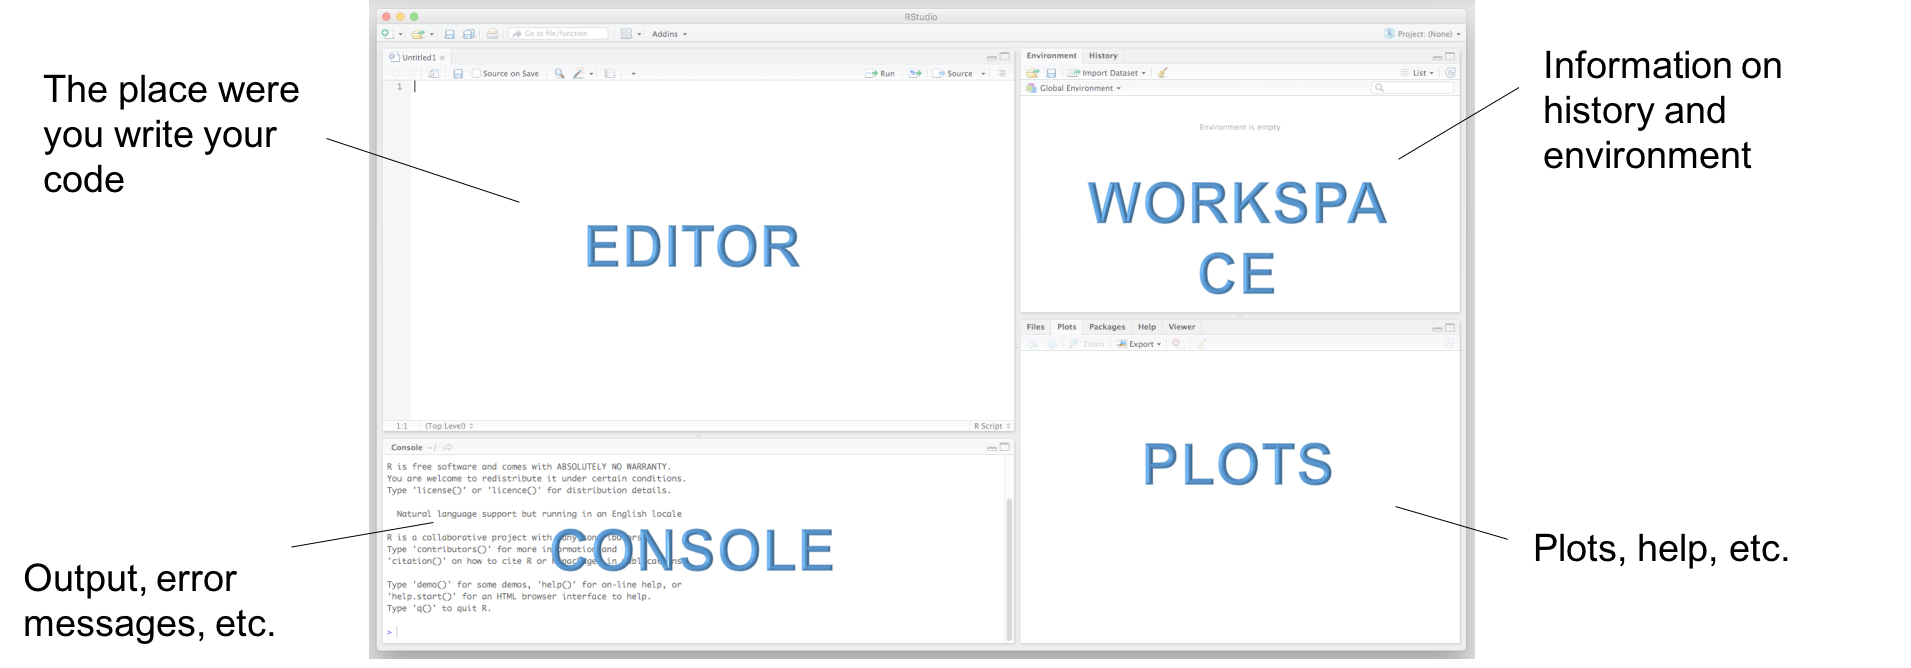
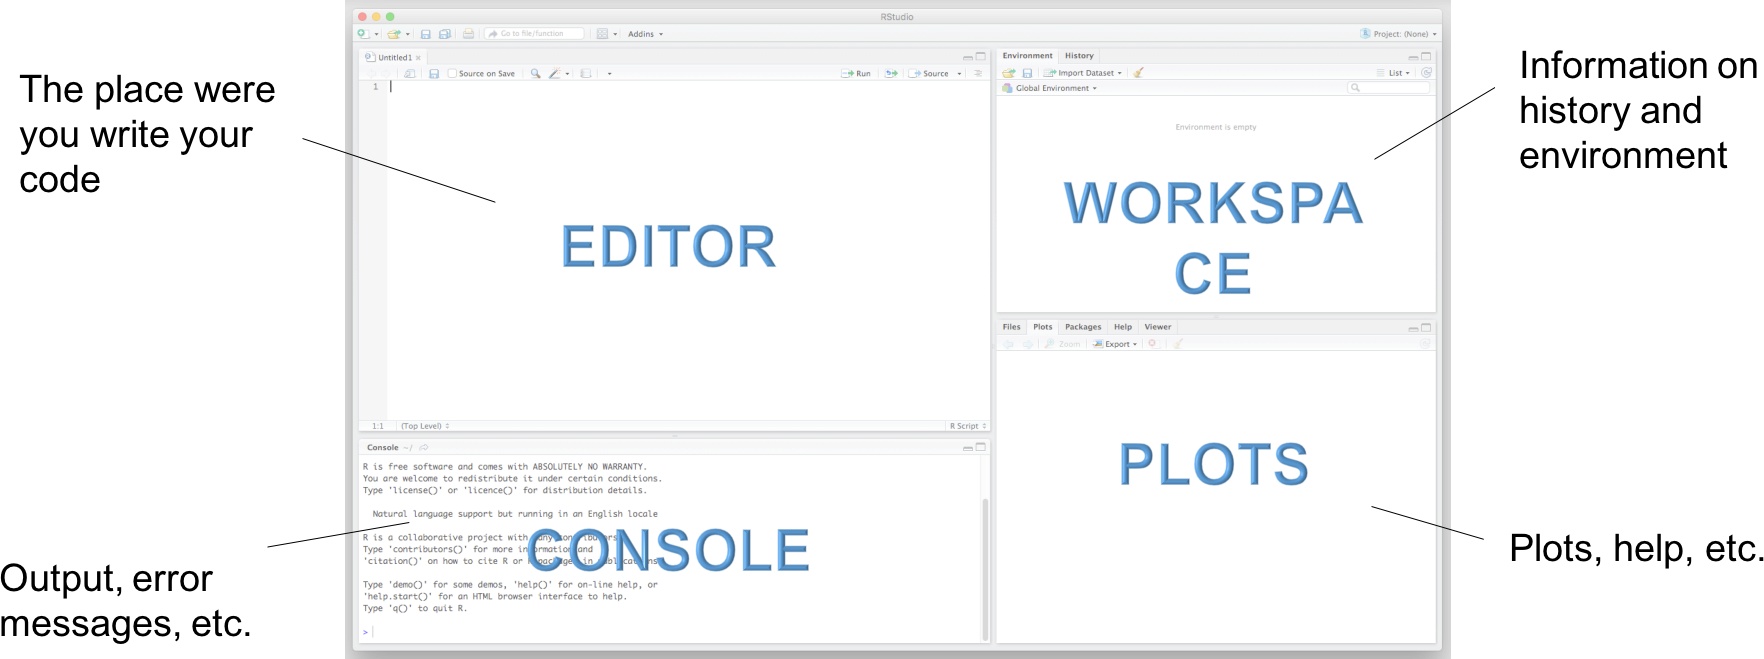
updated slides

diff --git a/r_teaser.html b/r_teaser.html
@@ -57,19 +57,25 @@ class: inverse,  center, middle
 
 &lt;img align="middle" style='height: 70%; width: 100%; object-fit: contain' src="assets/plot_examples.png"/&gt;
 
+???
+
+good &amp; bad news
 
 ---
 ## How to get started?
 
 1. Install R from http://r-project.org
 
-2. Install an editor like
+2. Install an editor like [RStudio](https://www.rstudio.com/products/rstudio/)
 
 R Studio is an excellent FREE development environment for writing your own R code. It allows the user to run R in a more user-friendly environment.
 
-.center[![](assets/rstudio_overview.png)]
+.image-110[.center[![](assets/rstudio_overview.png)]]
 
 
+???
+
+wa analgoy, single contact
 
 
 ---
@@ -437,9 +443,14 @@ background-size: 95%
 
 
 ---
-# Exampe: Generated Report
 
-.image-50[![](assets/rmd_result.png)]
+background-image: url(assets/rmd_result.png)
+background-position: top
+background-size: 80%
+
+
+
+
 
 ???
 
@@ -557,6 +568,8 @@ Get involved
 **presenter's choice**
 
 
+living with 3 slides
+
 ---
 class: inverse
 
@@ -574,6 +587,7 @@ class: inverse
 
 ]
 
+
 --
 .right-column50[
 
@@ -582,7 +596,12 @@ class: inverse
 &lt;br&gt;
 &lt;br&gt;
 ![](assets/thank_you.png)
- ]
+
+]
+
+
+&lt;br&gt;
+https://github.com/holgerbrandl/r_in_ten_minutes
     </textarea>
 <script src="https://remarkjs.com/downloads/remark-latest.min.js"></script>
 <script>var slideshow = remark.create({

diff --git a/assets/my-theme.html b/assets/my-theme.html
@@ -131,6 +131,7 @@ $(document).ready(function () {
 <p>.image-40 img { width: 40%; }</p>
 <p>.image-50 img { width: 50%; }</p>
 <p>.image-75 img { width: 75%; } .image-85 img { width: 85%; }</p>
+<p>.image-110 img { width: fit-content; }</p>
 <p>/*<a href="https://github.com/gnab/remark/issues/236*/" class="uri">https://github.com/gnab/remark/issues/236*/</a> .left-column40 { width: 40%; float: left; }</p>
 <p>.left-column50 { width: 50%; float: left; }</p>
 <p>.right-column50 { width: 50%; float: right; }</p>
